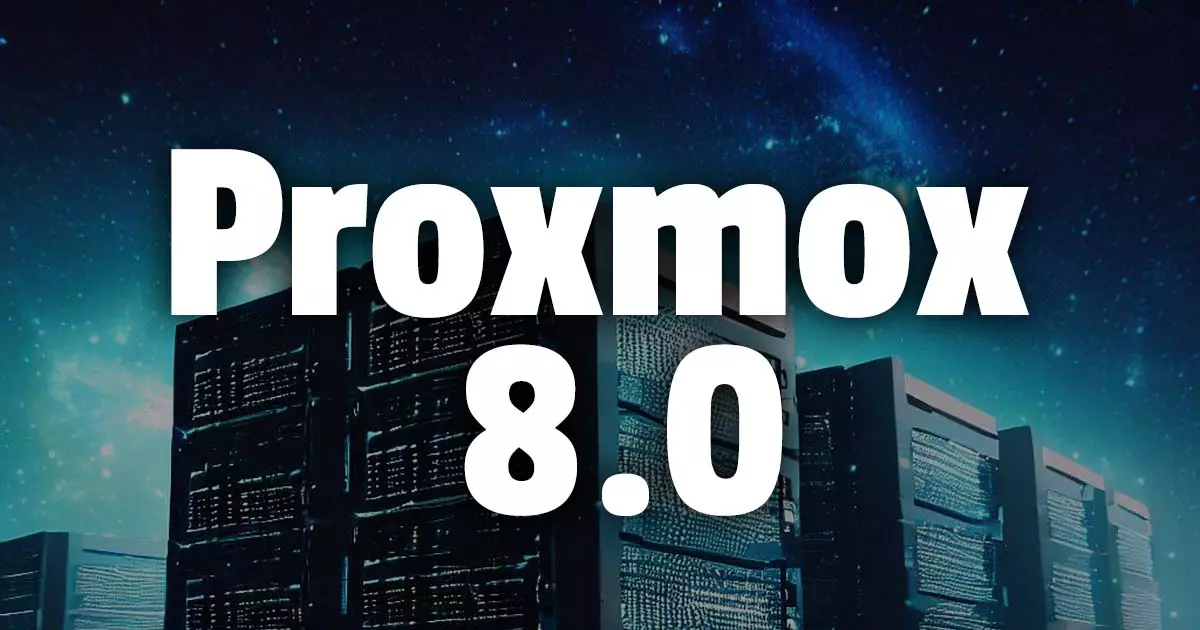
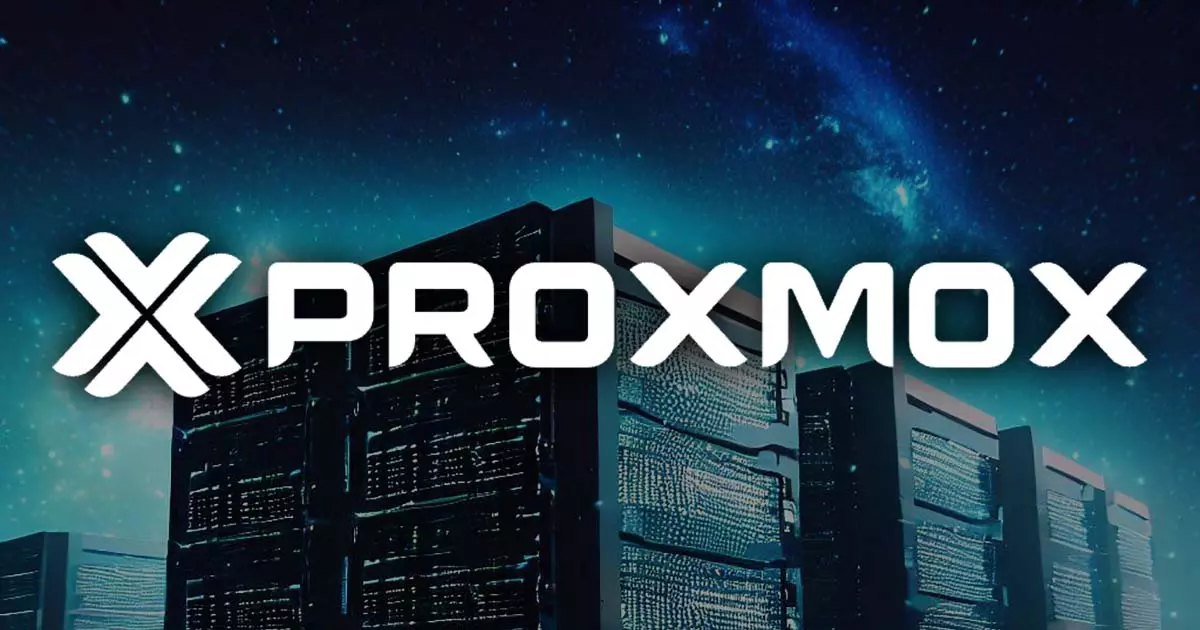
feat(post): How to upgrade proxmox 7 to 8

Changed region(s): [[0.0308, 0.2111, 0.9558, 0.8444]]

diff --git a/tools/lquip/index.js b/tools/lquip/index.js
@@ -16,7 +16,7 @@ async function ls(path) {
   console.log('done')
 }
 
-// ls('assets/img/headers').catch(console.error)
+ls('assets/img/headers').catch(console.error)
 ls('assets/img/posts')
 .catch(console.error)
 

diff --git a/_posts/2023-06-24-upgrade-proxmox-to-8.md b/_posts/2023-06-24-upgrade-proxmox-to-8.md
@@ -6,7 +6,7 @@ categories: proxmox
 tags: homelab proxmox debian
 image:
   path: /assets/img/headers/proxmox-8-upgrade.webp
[2 lines of base64/hex data omitted]
 ---
 
 Proxmox 8.0 has been releases (June, 22, 2023) and includes several new features and a Debian version upgrade. Among the changes are:
